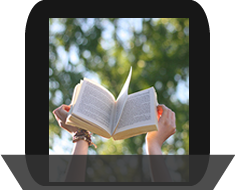
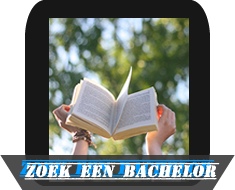
homepage

diff --git a/Site/homepage.html b/Site/homepage.html
@@ -5,16 +5,18 @@
 
 <html>
 <head>
-<link rel="stylesheet" type="text/css" href="style.css">
-<title>index</title>
+<link rel="stylesheet" type="text/css" href="oefen.css">
+<title>Home</title>
 </head>
 <body>
+<h2> www.site.nl</h2>
 <ul>
-<LI> <h1 class = "master"><div class="button"><a href="http://www.studeren.uva.nl/ki" target="_blank" title="klik hier!"> Zoek een Masteropleiding </a></div></h1> </LI>
-<LI><h1 class = "bachelor"><div class="button"><a href="http://www.studeren.uva.nl/ki" target="_blank" title="klik hier!"> Zoek een Masteropleiding </a></div></h1> </LI></div></LI>
-<LI> <h1 class = "login"><div class= "button"><a href="http://www.studeren.uva.nl/ki" target="_blank" title="klik hier!"> Log in</a></div></h1> </LI></div></LI>
-
+<LI> <a href="http://www.studeren.uva.nl/ki" target="_blank" title="klik hier!" class = "master"> <span><img src ="pic1.png"></span> </a> </LI>
+<LI><a href="http://www.studeren.uva.nl/ki" target="_blank" title="klik hier!" class = "bachelor"><span><img src="pic2.png"></span></a> </LI>
+<LI> <a href="http://www.studeren.uva.nl/ki" target="_blank" title="klik hier!" class = "login"><span><img src="pic3.png"></span></a></LI>
 </ul>
+
+
 
 
 

diff --git a/Site/homepagecss.css b/Site/homepagecss.css
@@ -7,48 +7,47 @@ body {
 	width: 970px;
 	height: 747px;
     background-color: #000000;
-	background-image:url('homebackground.png');
+	background-image:url('homebackground1.png');
 	background-repeat: no-repeat;
 	background-position:center;
 	margin: 0 auto;	
 }
 
- h1{
-    font-family:"Arial", "Helvetica", "sans-serif";
-	width: 237px;
+ 
+
+h2{
+font-family:"Arial", "Helvetica", "sans-serif";
+width: 970px;
+float: right;
+color: white;
+text-align: right;
+top: 50px;
+margin: 0em 0em;
+margin-right: 1em;
+
+}
+
+
+a:hover span{
+	float:left;
+	width: 235px;
 	height: 187px;
-	margin: 0em 0em;
-	background-repeat: no-repeat;
-	font-size: 0.8em;
-	text-align: center;
-	color: #ffffff;
-	
+	Background-image: url(thehover.png);
 }
 
-h1.master{
-	background-image: url(pic1.png);
-	h1.master a
-	{
-	color: #ffffff;
-	}
-}
-h1.bachelor{
-background-image: url(pic2.png);
-}
-h1.login{
-background-image:url(pic3.png);
-}
 
-div.button{
-	padding-top: 12.5em;
-}
+
 ul{
 	list-style-type: none;
 }
 
 li {
 	padding: 0em 2em;
-	padding-top: 615px;
+	padding-top: 580px;
 	float: left;
 }
+
+
+
+
 
